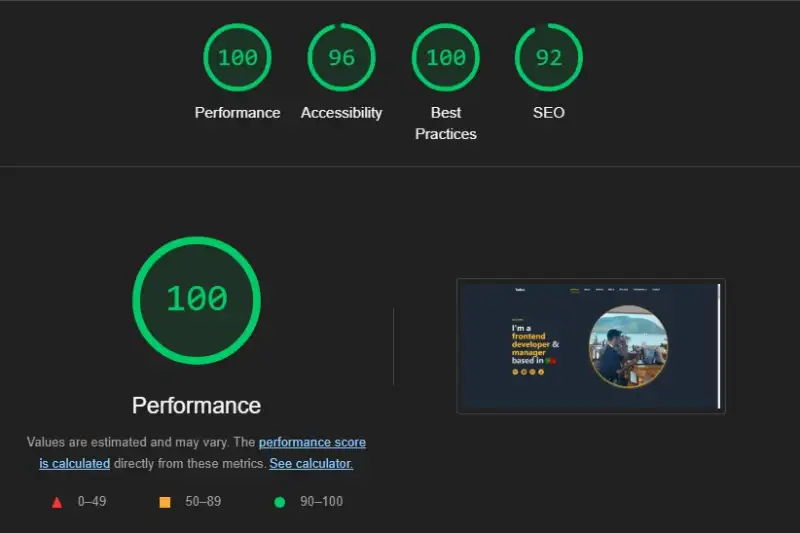
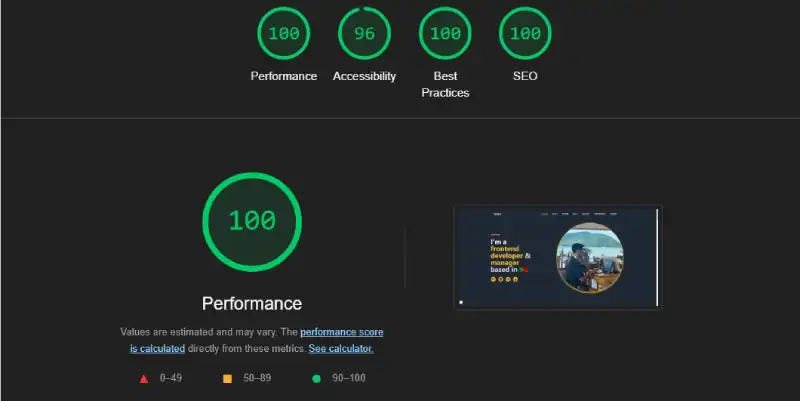
Improved SEO and updated portfolio thumbnail

diff --git a/src/components/ResumeCard.tsx b/src/components/ResumeCard.tsx
@@ -9,7 +9,7 @@ const ResumeCard = ({ id, timeframe, role, company, description, skills, href }:
     <p className="text-gray-400 text-sm mb-4">{company}</p>
 
     {id &&
-      <a className="block mb-4 text-white underline cursor-pointer" onClick={(e) => {
+      <button className="block mb-4 text-white underline cursor-pointer" onClick={(e) => {
         e.preventDefault();
         const element = document.getElementById(`${id}-project`);
         if (element) {
@@ -20,7 +20,7 @@ const ResumeCard = ({ id, timeframe, role, company, description, skills, href }:
         }
       }}>
         More details
-      </a>
+      </button>
     }
 
     {
